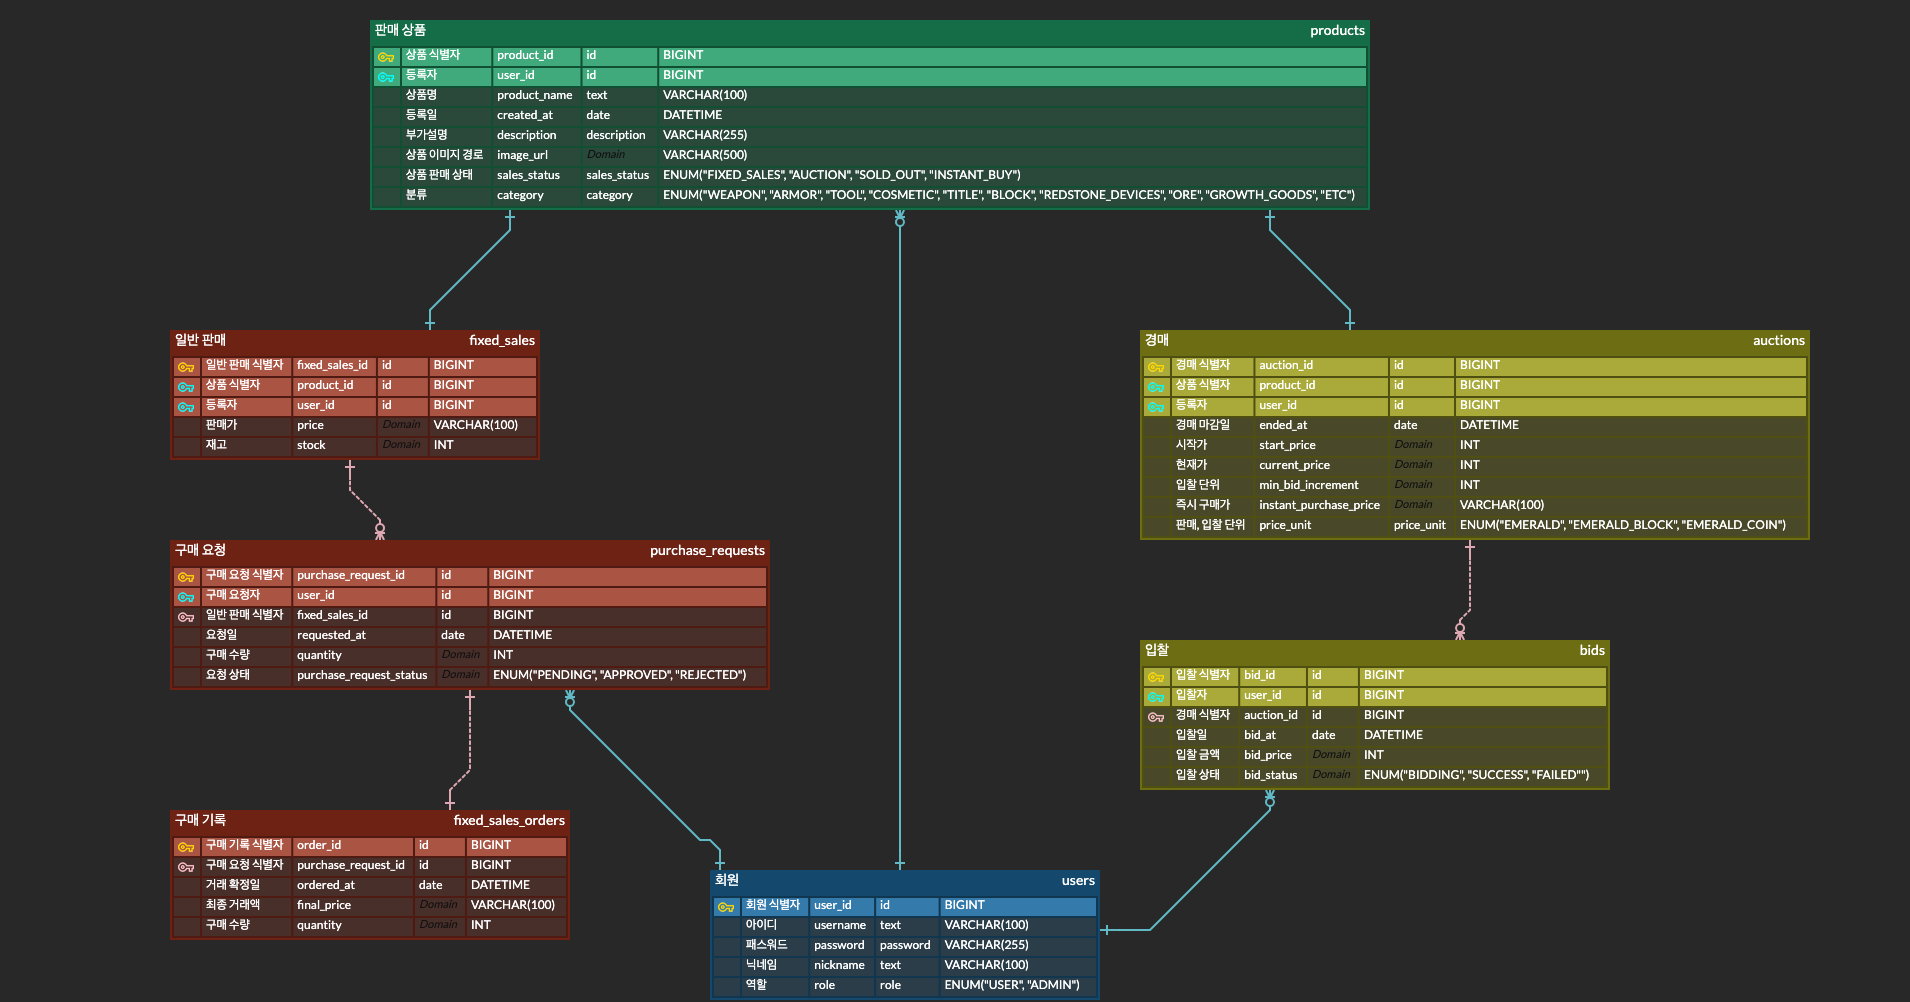
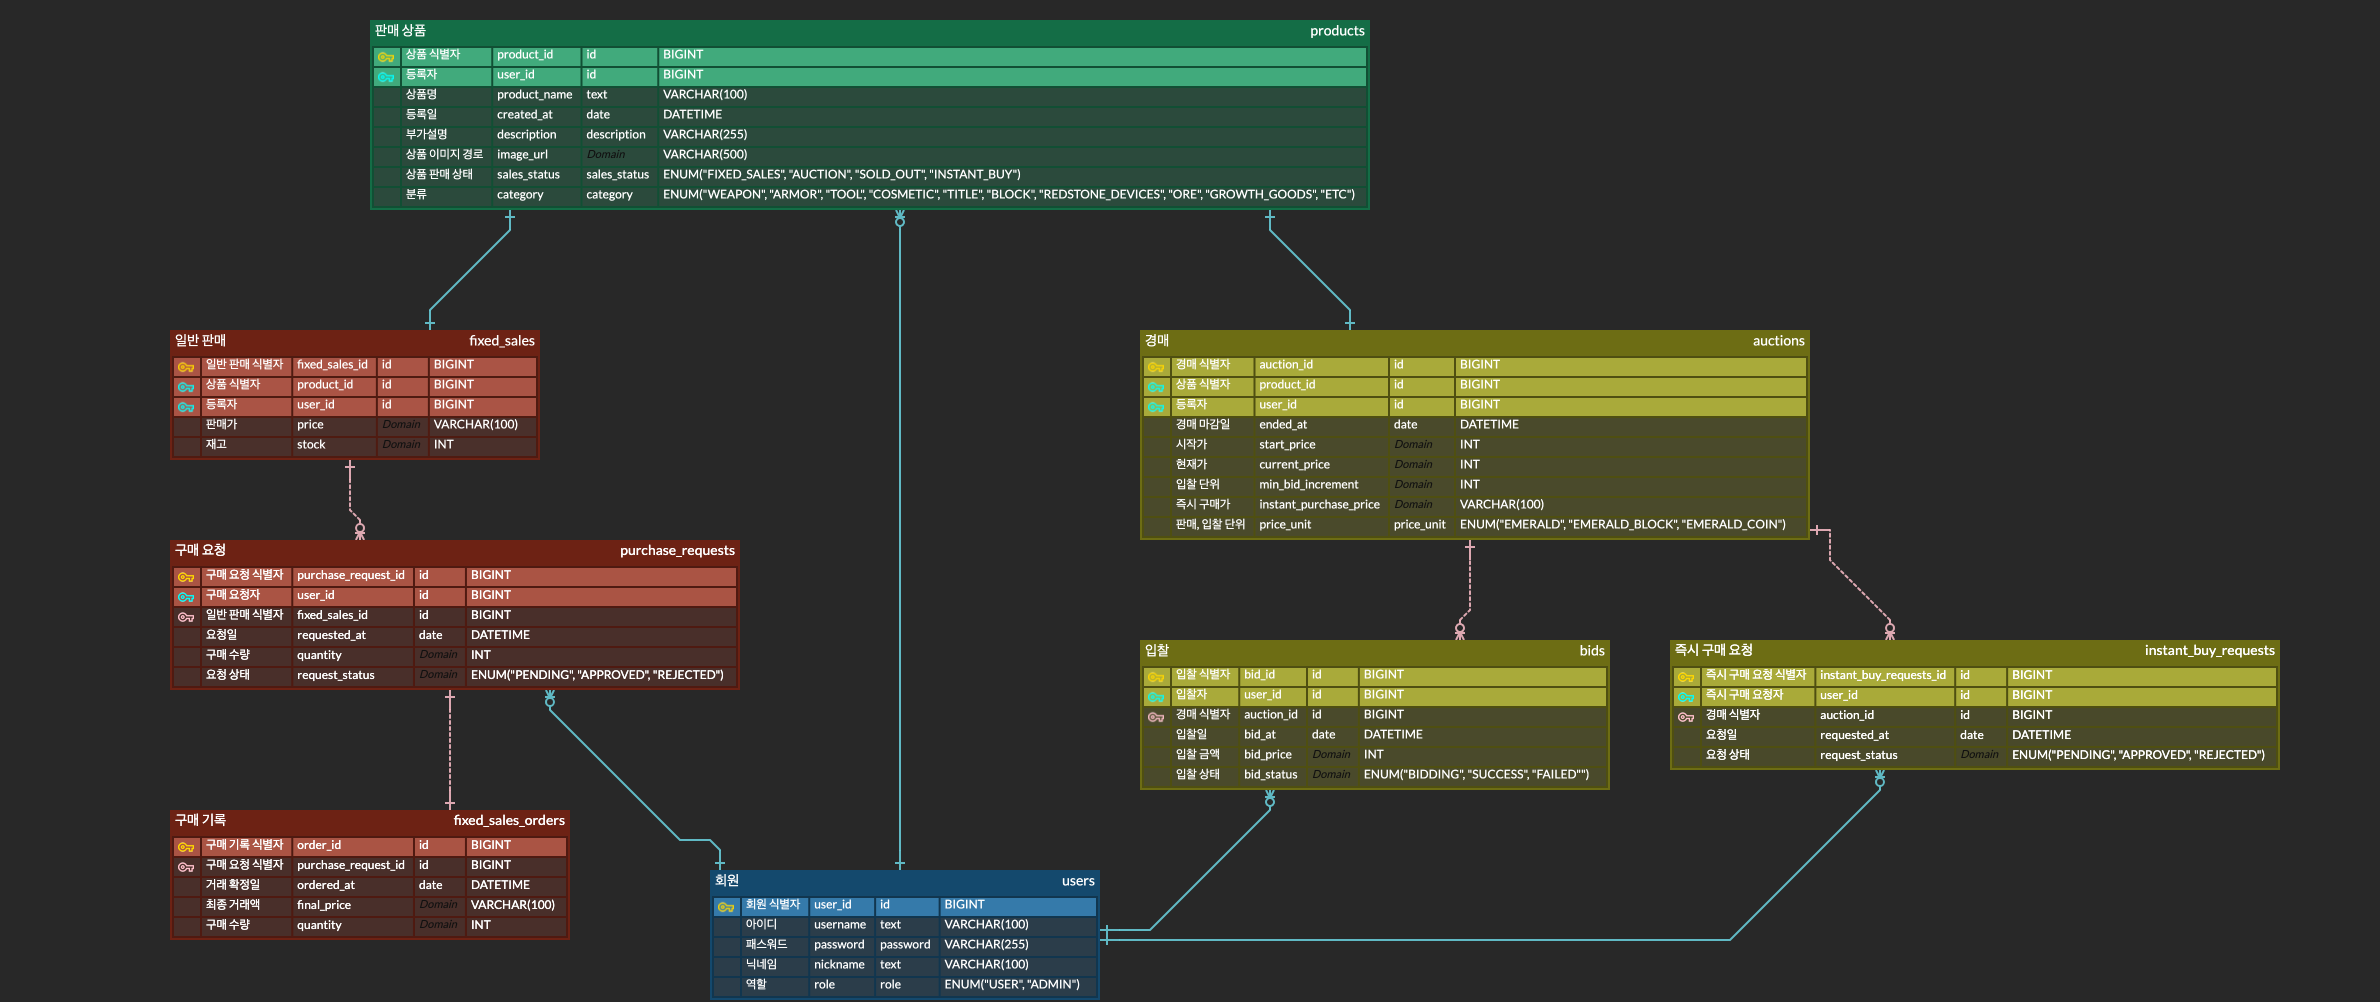
feat: 경매의 즉시 구매 요청 테이블 추가

diff --git a/backend/src/main/java/com/auction/backend/domain/purchaserequest/entity/InstantBuyRequest.java b/backend/src/main/java/com/auction/backend/domain/purchaserequest/entity/InstantBuyRequest.java
@@ -1,56 +1,59 @@
 package com.auction.backend.domain.purchaserequest.entity;
 
-import com.auction.backend.domain.sale.fixedsale.entity.FixedSale;
+import com.auction.backend.domain.sale.auction.entity.Auction;
 import com.auction.backend.domain.user.entity.User;
-import com.auction.backend.global.entity.BaseTimeEntity;
 import com.auction.backend.global.enums.RequestStatus;
 import jakarta.persistence.*;
 import lombok.AccessLevel;
 import lombok.Builder;
 import lombok.Getter;
 import lombok.NoArgsConstructor;
+import org.springframework.data.annotation.CreatedDate;
+import org.springframework.data.jpa.domain.support.AuditingEntityListener;
+
+import java.time.LocalDateTime;
 
 @Entity
 @Getter
-@Table(name = "purchase_requests")
+@Table(name = "instant_buy_requests")
+@EntityListeners(AuditingEntityListener.class)
 @NoArgsConstructor(access = AccessLevel.PROTECTED)
-public class PurchaseRequest extends BaseTimeEntity {
+public class InstantBuyRequest {
 
     @Id
     @GeneratedValue(strategy = GenerationType.IDENTITY)
-    @Column(name = "purchase_request_id")
-    private Long purchaseRequestId;
+    @Column(name = "instant_buy_request_id")
+    private Long instantBuyRequestId;
 
     @ManyToOne(fetch = FetchType.LAZY)
     @JoinColumn(name = "user_id", nullable = false)
     private User user;
 
     @ManyToOne(fetch = FetchType.LAZY)
-    @JoinColumn(name = "fixed_sales_id", nullable = false)
-    private FixedSale fixedSale;
-
-    @Column(nullable = false)
-    private Integer quantity;
+    @JoinColumn(name = "auction_id", nullable = false)
+    private Auction auction;
 
     @Enumerated(EnumType.STRING)
     @Column(name = "request_status", nullable = false)
     private RequestStatus requestStatus = RequestStatus.PENDING;
 
+    @CreatedDate
+    @Column(name = "created_at", updatable = false)
+    private LocalDateTime createdAt;
+
     @Builder
-    public PurchaseRequest(User user, FixedSale fixedSale, Integer quantity, RequestStatus requestStatus) {
+    public InstantBuyRequest(User user, Auction auction, RequestStatus requestStatus) {
         this.user = user;
-        this.fixedSale = fixedSale;
-        this.quantity = quantity != null ? quantity : 1;
+        this.auction = auction;
         if (requestStatus != null) {
             this.requestStatus = requestStatus;
         }
     }
 
-    public static PurchaseRequest createPurchaseRequest(User user, FixedSale fixedSale, Integer quantity) {
-        return PurchaseRequest.builder()
+    public static InstantBuyRequest createInstantBuyRequest(User user, Auction auction) {
+        return InstantBuyRequest.builder()
                 .user(user)
-                .fixedSale(fixedSale)
-                .quantity(quantity)
+                .auction(auction)
                 .requestStatus(RequestStatus.PENDING)
                 .build();
     }

diff --git a/backend/src/main/java/com/auction/backend/domain/admin/service/AdminService.java b/backend/src/main/java/com/auction/backend/domain/admin/service/AdminService.java
@@ -1,0 +1,59 @@
+package com.auction.backend.domain.admin.service;
+
+import com.auction.backend.domain.bid.dto.BidResponse;
+import com.auction.backend.domain.bid.repository.BidRepository;
+import com.auction.backend.domain.bid.service.BidService;
+import com.auction.backend.domain.product.dto.ProductListResponse;
+import com.auction.backend.domain.product.entity.Product;
+import com.auction.backend.domain.product.repository.ProductRepository;
+import com.auction.backend.domain.product.service.ProductService;
+import com.auction.backend.domain.purchaserequest.dto.PurchaseRequestResponse;
+import com.auction.backend.domain.purchaserequest.entity.PurchaseRequest;
+import com.auction.backend.domain.purchaserequest.repository.PurchaseRequestRepository;
+import com.auction.backend.domain.purchaserequest.service.PurchaseRequestService;
+import com.auction.backend.domain.user.dto.profile.UserResponse;
+import com.auction.backend.domain.user.repository.UserRepository;
+import lombok.RequiredArgsConstructor;
+import org.springframework.stereotype.Service;
+import org.springframework.transaction.annotation.Transactional;
+
+import java.util.List;
+import java.util.stream.Collectors;
+
+@Service
+@RequiredArgsConstructor
+@Transactional(readOnly = true)
+public class AdminService {
+
+    private final UserRepository userRepository;
+    private final ProductRepository productRepository;
+    private final PurchaseRequestRepository purchaseRequestRepository;
+    private final BidRepository bidRepository;
+    private final ProductService productService;
+    private final PurchaseRequestService purchaseRequestService;
+    private final BidService bidService;
+
+    public List<UserResponse> getAllUsers() {
+        return userRepository.findAll().stream()
+                .map(UserResponse::from)
+                .collect(Collectors.toList());
+    }
+
+    public List<ProductListResponse> getAllProducts() {
+        return productRepository.findAll().stream()
+                .map(product -> productService.getProductDetail(product.getProductId()))
+                .collect(Collectors.toList());
+    }
+
+    public List<PurchaseRequestResponse> getAllPurchaseRequests() {
+        return purchaseRequestRepository.findAll().stream()
+                .map(purchaseRequestService::convertToResponse)
+                .collect(Collectors.toList());
+    }
+
+    public List<BidResponse> getAllBids() {
+        return bidRepository.findAll().stream()
+                .map(bidService::convertToResponse)
+                .collect(Collectors.toList());
+    }
+}

diff --git a/backend/src/main/java/com/auction/backend/domain/bid/service/BidService.java b/backend/src/main/java/com/auction/backend/domain/bid/service/BidService.java
@@ -1,0 +1,44 @@
+package com.auction.backend.domain.bid.service;
+
+import com.auction.backend.domain.bid.dto.BidResponse;
+import com.auction.backend.domain.bid.entity.Bid;
+import com.auction.backend.domain.bid.repository.BidRepository;
+import com.auction.backend.domain.user.entity.User;
+import com.auction.backend.domain.user.repository.UserRepository;
+import lombok.RequiredArgsConstructor;
+import org.springframework.stereotype.Service;
+import org.springframework.transaction.annotation.Transactional;
+
+import java.util.List;
+import java.util.stream.Collectors;
+
+@Service
+@RequiredArgsConstructor
+@Transactional(readOnly = true)
+public class BidService {
+
+    private final BidRepository bidRepository;
+    private final UserRepository userRepository;
+
+    public List<BidResponse> getMyBids(Long userId) {
+        User user = userRepository.findById(userId)
+                .orElseThrow(() -> new RuntimeException("사용자를 찾을 수 없습니다."));
+
+        return bidRepository.findByUserOrderByCreatedAtDesc(user).stream()
+                .map(this::convertToResponse)
+                .collect(Collectors.toList());
+    }
+
+    public BidResponse convertToResponse(Bid bid) {
+        return BidResponse.builder()
+                .id(bid.getBidId())
+                .productName(bid.getAuction().getProduct().getProductName())
+                .bidderName(bid.getUser().getNickname())
+                .sellerName(bid.getAuction().getProduct().getUser().getNickname())
+                .bidPrice(bid.getBidPrice())
+                .priceUnit(bid.getAuction().getPriceUnit().name())
+                .status(bid.getBidStatus())
+                .bidDate(bid.getCreatedAt())
+                .build();
+    }
+}

diff --git a/backend/src/main/java/com/auction/backend/domain/admin/controller/AdminController.java b/backend/src/main/java/com/auction/backend/domain/admin/controller/AdminController.java
@@ -1,0 +1,42 @@
+package com.auction.backend.domain.admin.controller;
+
+import com.auction.backend.domain.admin.service.AdminService;
+import com.auction.backend.domain.bid.dto.BidResponse;
+import com.auction.backend.domain.product.dto.ProductListResponse;
+import com.auction.backend.domain.purchaserequest.dto.PurchaseRequestResponse;
+import com.auction.backend.domain.user.dto.profile.UserResponse;
+import lombok.RequiredArgsConstructor;
+import org.springframework.http.ResponseEntity;
+import org.springframework.web.bind.annotation.GetMapping;
+import org.springframework.web.bind.annotation.RequestMapping;
+import org.springframework.web.bind.annotation.RestController;
+
+import java.util.List;
+
+@RestController
+@RequestMapping("/api/v1/admin")
+@RequiredArgsConstructor
+public class AdminController {
+
+    private final AdminService adminService;
+
+    @GetMapping("/users")
+    public ResponseEntity<List<UserResponse>> getAllUsers() {
+        return ResponseEntity.ok(adminService.getAllUsers());
+    }
+
+    @GetMapping("/products")
+    public ResponseEntity<List<ProductListResponse>> getAllProducts() {
+        return ResponseEntity.ok(adminService.getAllProducts());
+    }
+
+    @GetMapping("/purchase-requests")
+    public ResponseEntity<List<PurchaseRequestResponse>> getAllPurchaseRequests() {
+        return ResponseEntity.ok(adminService.getAllPurchaseRequests());
+    }
+
+    @GetMapping("/bids")
+    public ResponseEntity<List<BidResponse>> getAllBids() {
+        return ResponseEntity.ok(adminService.getAllBids());
+    }
+}

diff --git a/backend/src/main/java/com/auction/backend/domain/purchaserequest/service/PurchaseRequestService.java b/backend/src/main/java/com/auction/backend/domain/purchaserequest/service/PurchaseRequestService.java
@@ -5,12 +5,12 @@ import com.auction.backend.domain.purchaserequest.dto.PurchaseRequestResponse;
 import com.auction.backend.domain.purchaserequest.entity.PurchaseRequest;
 import com.auction.backend.domain.purchaserequest.repository.PurchaseRequestRepository;
 import com.auction.backend.domain.sale.fixedsale.entity.FixedSale;
-import com.auction.backend.domain.sale.fixedsale.entity.PurchaseRequestStatus;
 import com.auction.backend.domain.sale.fixedsale.repository.FixedSaleRepository;
 import com.auction.backend.domain.user.entity.User;
 import com.auction.backend.domain.user.repository.UserRepository;
 import com.auction.backend.domain.fixedsalesorder.entity.FixedSalesOrder;
 import com.auction.backend.domain.fixedsalesorder.repository.FixedSalesOrderRepository;
+import com.auction.backend.global.enums.RequestStatus;
 import lombok.RequiredArgsConstructor;
 import lombok.extern.slf4j.Slf4j;
 import org.springframework.stereotype.Service;
@@ -139,7 +139,7 @@ public class PurchaseRequestService {
                 .quantity(request.getQuantity())
                 .price(request.getFixedSale().getPrice())
                 .priceUnit("원") // 일반 판매는 현재 "원" 단위를 기본으로 사용
-                .status(request.getPurchaseRequestStatus())
+                .status(request.getRequestStatus())
                 .requestDate(request.getCreatedAt())
                 .build();
     }

diff --git a/backend/src/main/java/com/auction/backend/domain/bid/controller/BidController.java b/backend/src/main/java/com/auction/backend/domain/bid/controller/BidController.java
@@ -1,0 +1,28 @@
+package com.auction.backend.domain.bid.controller;
+
+import com.auction.backend.domain.bid.dto.BidResponse;
+import com.auction.backend.domain.bid.service.BidService;
+import lombok.RequiredArgsConstructor;
+import org.springframework.http.ResponseEntity;
+import org.springframework.security.core.annotation.AuthenticationPrincipal;
+import org.springframework.security.core.userdetails.User;
+import org.springframework.web.bind.annotation.GetMapping;
+import org.springframework.web.bind.annotation.RequestMapping;
+import org.springframework.web.bind.annotation.RestController;
+
+import java.util.List;
+
+@RestController
+@RequestMapping("/api/v1/bids")
+@RequiredArgsConstructor
+public class BidController {
+
+    private final BidService bidService;
+
+    @GetMapping("/me")
+    public ResponseEntity<List<BidResponse>> getMyBids(
+            @AuthenticationPrincipal User principal) {
+        Long userId = Long.parseLong(principal.getUsername());
+        return ResponseEntity.ok(bidService.getMyBids(userId));
+    }
+}

diff --git a/backend/src/main/java/com/auction/backend/domain/purchaserequest/repository/InstantBuyRequestRepository.java b/backend/src/main/java/com/auction/backend/domain/purchaserequest/repository/InstantBuyRequestRepository.java
@@ -1,0 +1,18 @@
+package com.auction.backend.domain.purchaserequest.repository;
+
+import com.auction.backend.domain.purchaserequest.entity.InstantBuyRequest;
+import com.auction.backend.domain.user.entity.User;
+import org.springframework.data.jpa.repository.JpaRepository;
+import org.springframework.data.jpa.repository.Query;
+import org.springframework.data.repository.query.Param;
+import org.springframework.stereotype.Repository;
+
+import java.util.List;
+
+@Repository
+public interface InstantBuyRequestRepository extends JpaRepository<InstantBuyRequest, Long> {
+    List<InstantBuyRequest> findByUser(User user);
+
+    @Query("SELECT ibr FROM InstantBuyRequest ibr WHERE ibr.auction.user = :seller")
+    List<InstantBuyRequest> findBySeller(@Param("seller") User seller);
+}

diff --git a/backend/src/main/java/com/auction/backend/domain/purchaserequest/dto/PurchaseRequestResponse.java b/backend/src/main/java/com/auction/backend/domain/purchaserequest/dto/PurchaseRequestResponse.java
@@ -1,6 +1,6 @@
 package com.auction.backend.domain.purchaserequest.dto;
 
-import com.auction.backend.domain.sale.fixedsale.entity.PurchaseRequestStatus;
+import com.auction.backend.global.enums.RequestStatus;
 import lombok.Builder;
 import lombok.Getter;
 
@@ -16,6 +16,6 @@ public class PurchaseRequestResponse {
     private Integer quantity;
     private String price;
     private String priceUnit;
-    private PurchaseRequestStatus status;
+    private RequestStatus status;
     private LocalDateTime requestDate;
 }

diff --git a/backend/src/main/java/com/auction/backend/domain/bid/dto/BidResponse.java b/backend/src/main/java/com/auction/backend/domain/bid/dto/BidResponse.java
@@ -1,0 +1,20 @@
+package com.auction.backend.domain.bid.dto;
+
+import com.auction.backend.domain.bid.entity.BidStatus;
+import lombok.Builder;
+import lombok.Getter;
+
+import java.time.LocalDateTime;
+
+@Getter
+@Builder
+public class BidResponse {
+    private Long id;
+    private String productName;
+    private String bidderName;
+    private String sellerName;
+    private Integer bidPrice;
+    private String priceUnit;
+    private BidStatus status;
+    private LocalDateTime bidDate;
+}

diff --git a/backend/src/main/java/com/auction/backend/domain/bid/repository/BidRepository.java b/backend/src/main/java/com/auction/backend/domain/bid/repository/BidRepository.java
@@ -1,0 +1,13 @@
+package com.auction.backend.domain.bid.repository;
+
+import com.auction.backend.domain.bid.entity.Bid;
+import com.auction.backend.domain.user.entity.User;
+import org.springframework.data.jpa.repository.JpaRepository;
+import org.springframework.stereotype.Repository;
+
+import java.util.List;
+
+@Repository
+public interface BidRepository extends JpaRepository<Bid, Long> {
+    List<Bid> findByUserOrderByCreatedAtDesc(User user);
+}

diff --git a/backend/src/main/java/com/auction/backend/domain/fixedsalesorder/repository/FixedSalesOrderRepository.java b/backend/src/main/java/com/auction/backend/domain/fixedsalesorder/repository/FixedSalesOrderRepository.java
@@ -1,0 +1,9 @@
+package com.auction.backend.domain.fixedsalesorder.repository;
+
+import com.auction.backend.domain.fixedsalesorder.entity.FixedSalesOrder;
+import org.springframework.data.jpa.repository.JpaRepository;
+import org.springframework.stereotype.Repository;
+
+@Repository
+public interface FixedSalesOrderRepository extends JpaRepository<FixedSalesOrder, Long> {
+}

diff --git a/backend/src/main/java/com/auction/backend/global/enums/RequestStatus.java b/backend/src/main/java/com/auction/backend/global/enums/RequestStatus.java
@@ -1,0 +1,12 @@
+package com.auction.backend.global.enums;
+
+import lombok.Getter;
+import lombok.RequiredArgsConstructor;
+
+@Getter
+@RequiredArgsConstructor
+public enum RequestStatus {
+    PENDING,
+    APPROVED,
+    REJECTED
+}
